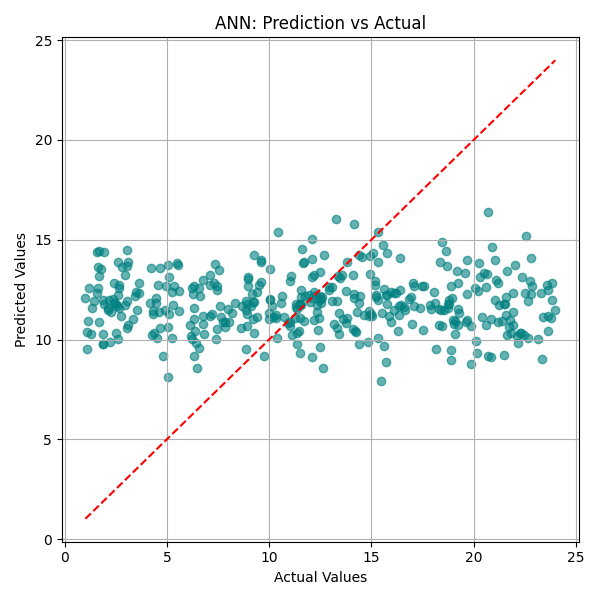
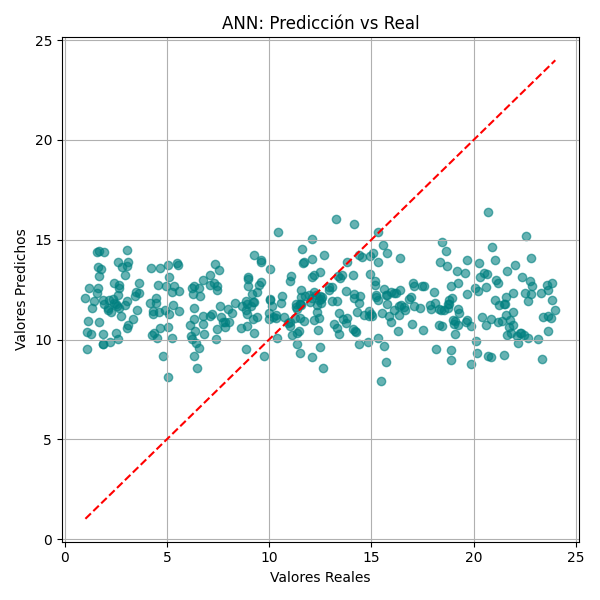
validado de idiomas

Changed region(s): [[0.36, 0.03, 0.72, 0.06], [0.45, 0.93, 0.63, 0.99], [0.0, 0.39, 0.06, 0.6]]

diff --git a/app.py b/app.py
@@ -27,7 +27,11 @@ def get_text(key, **kwargs):
     """
     lang = st.session_state.language
     text = TRANSLATIONS.get(key, {}).get(lang, f"MISSING_TRANSLATION_{key}")
-    return text.format(**kwargs) if kwargs else text
+
+    if isinstance(text, str) and kwargs:
+        return text.format(**kwargs)
+    return text
+
 
 # --- Crear carpetas si no existen ---
 os.makedirs("img", exist_ok=True)
@@ -716,9 +720,10 @@ with tab2:
             'Quality Checks Failed': 0,
             'Average Temperature C': 25.0,
             'Average Humidity Percent': 60.0,
+            **tipo_producto_cols,
             'Shift_Night': 0,
-            'Shift_Swing': 0,
-            **tipo_producto_cols
+            'Shift_Swing': 0
+            
         }
         entrada = pd.DataFrame([entrada_dict])
 
